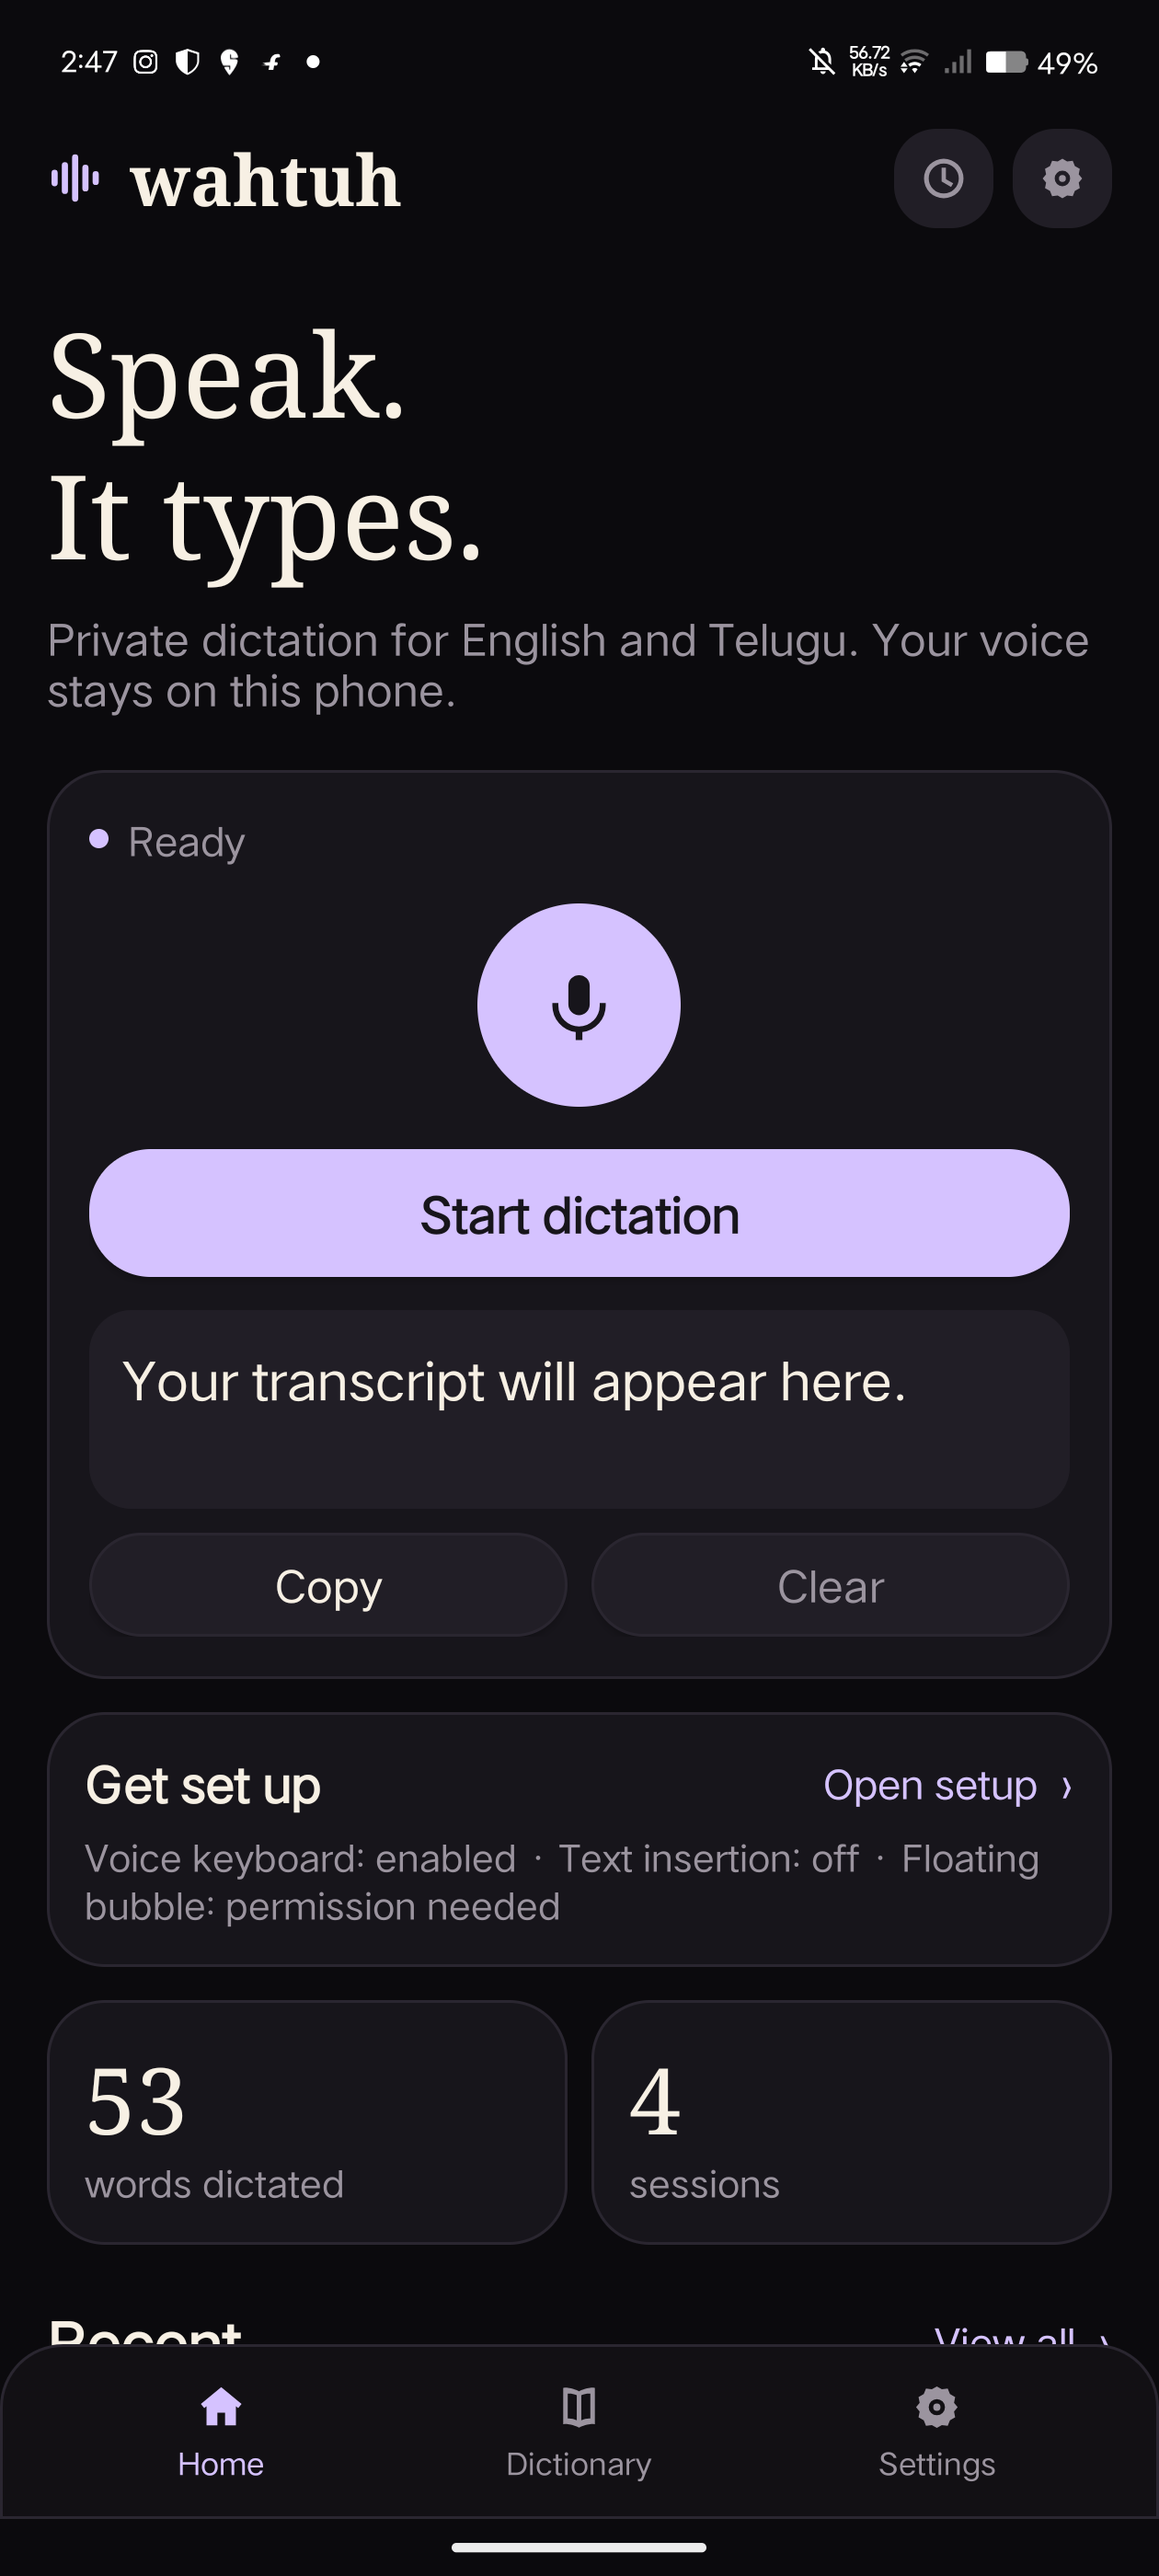
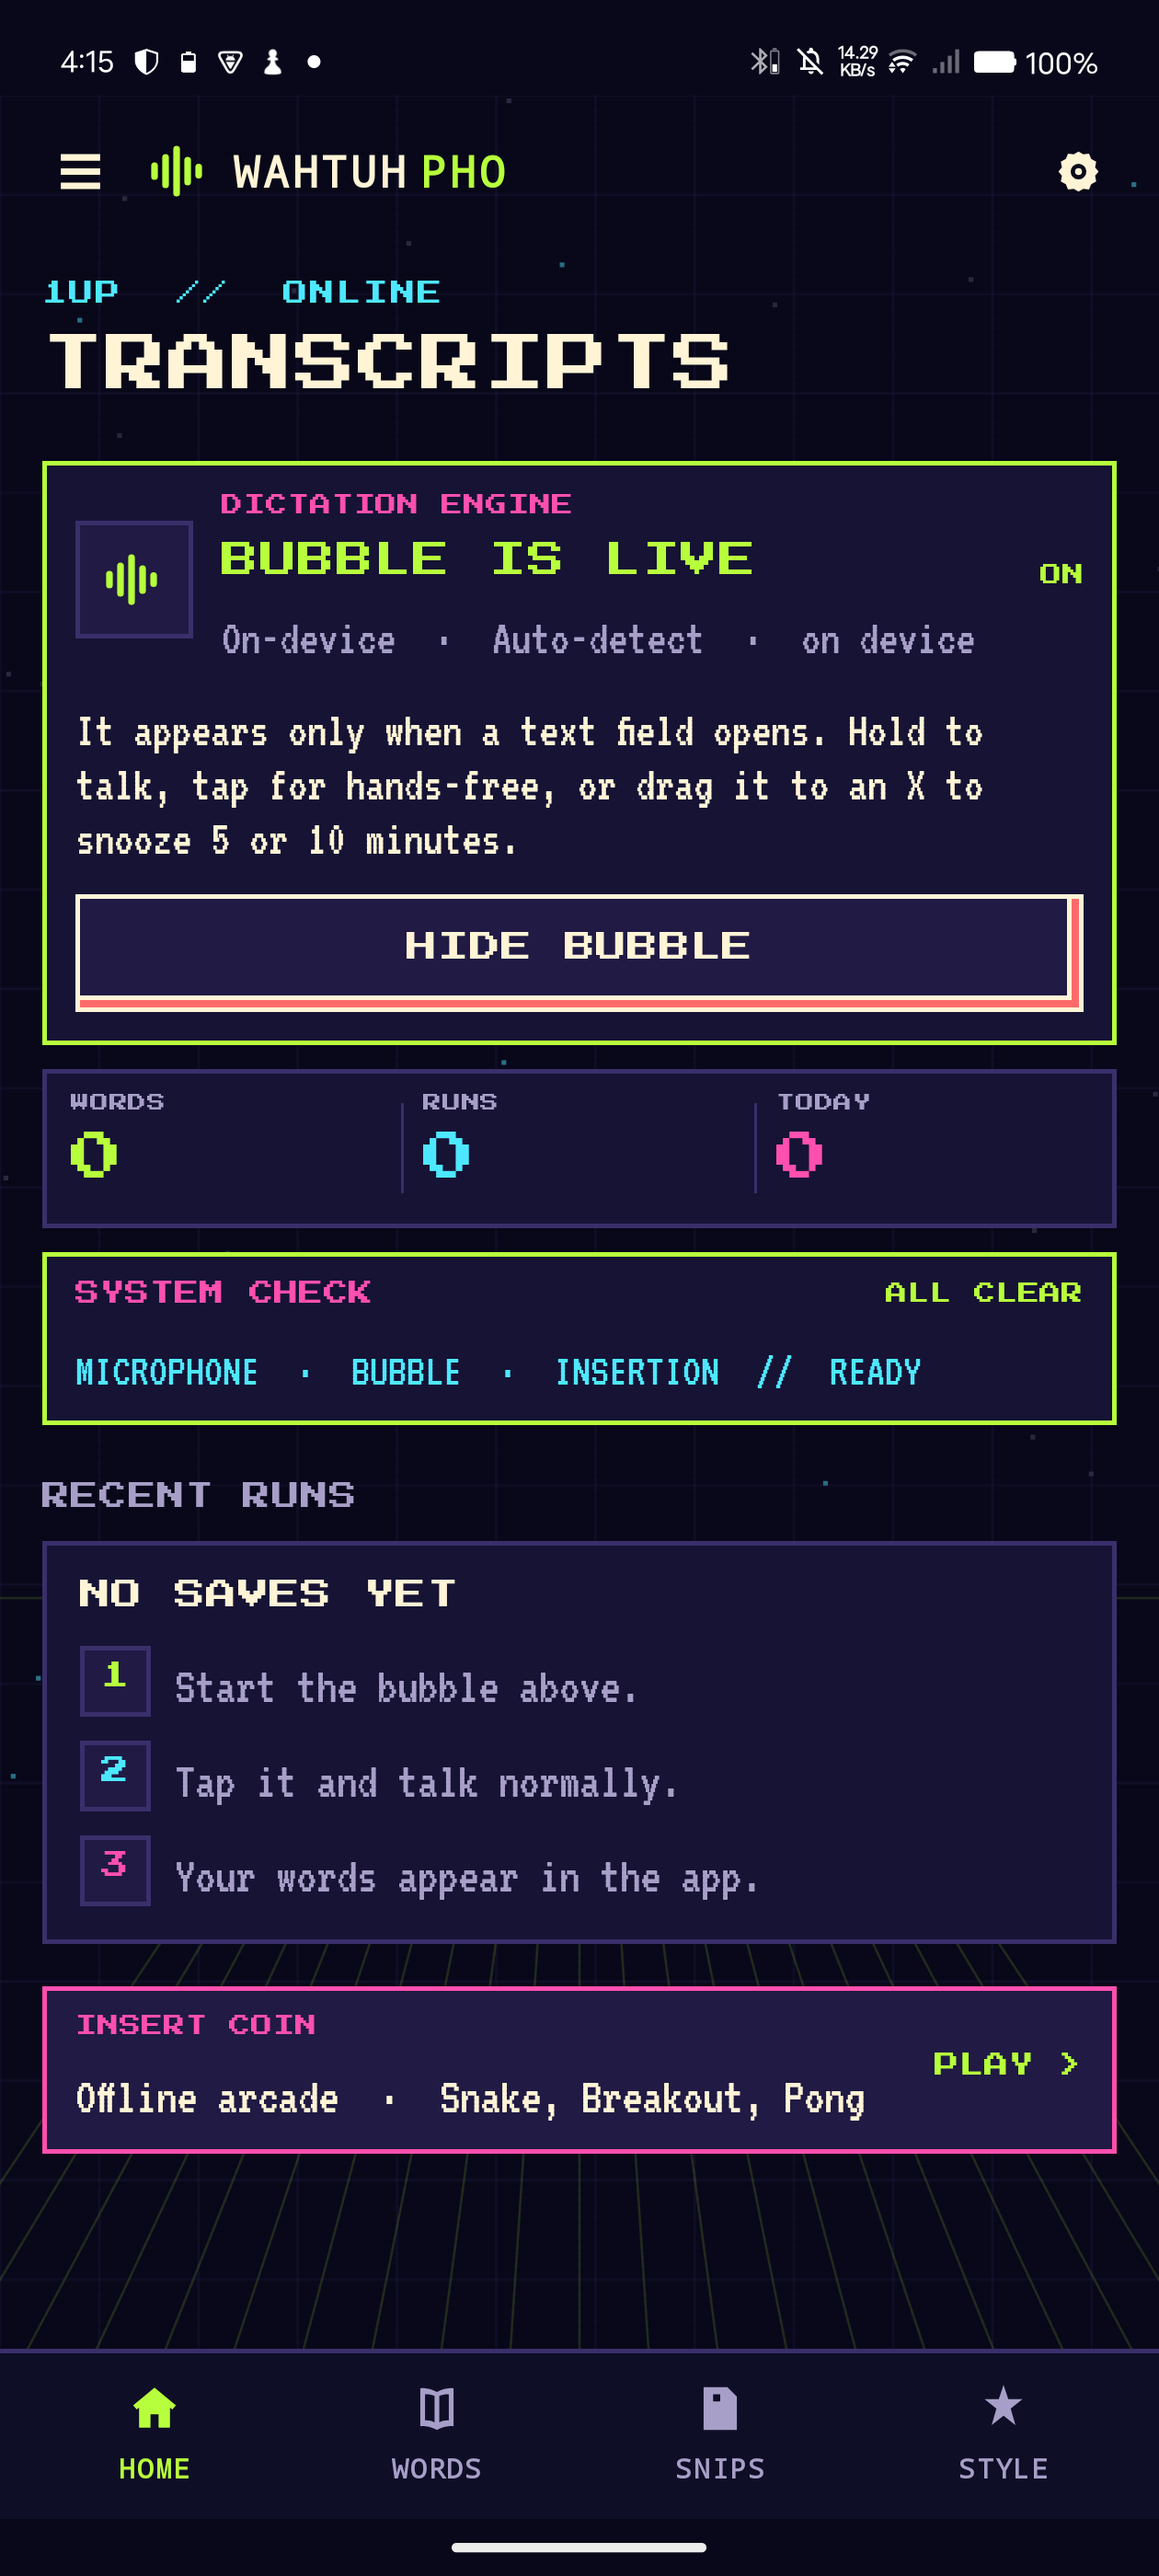
docs: refresh device screenshots and 0.3.0 release notes

diff --git a/README.md b/README.md
@@ -6,7 +6,11 @@ Wahtuh Pho is an independent, local-first voice keyboard and floating dictation 
 
 > Not affiliated with Wispr Flow. The interaction model is inspired by modern dictation apps; all app code, copy, and artwork here are original, including the arcade-inspired UI and 8-bit launcher icon.
 
-![Home screen](docs/screenshots/home.png)
+| Home | Settings | Offline arcade |
+|:---:|:---:|:---:|
+| ![Home screen](docs/screenshots/home.png) | ![Settings](docs/screenshots/settings.png) | ![Offline arcade](docs/screenshots/arcade.png) |
+
+More screens: [Dictionary](docs/screenshots/words.png) · [Snippets](docs/screenshots/snips.png) · [Styles](docs/screenshots/style.png)
 
 ## Why another dictation app?
 
@@ -26,7 +30,7 @@ Wispr Flow's paid promise, our clean-room notes, and the feature gaps we deliber
 
 ## Status
 
-- **Android app: v0.3.0.** Whistle local ASR, seven languages, verified insertion, snippets, writing styles, self-corrections, developer dictation, inline edit commands, selected-text Command Mode, local history retention, boot recovery, and optional cloud providers. Builds as an 18 MB APK. Text tests pass **51/51** and VAD checks **11/11**. The newest features still need a physical device pass; see [docs/FEATURE_PARITY.md](docs/FEATURE_PARITY.md) for the honest Wispr Flow comparison.
+- **Android app: v0.3.0.** Whistle local ASR, seven languages, verified insertion, snippets, writing styles, self-corrections, developer dictation, inline edit commands, selected-text Command Mode, local history retention, boot recovery, and optional cloud providers. Builds as an 18 MB APK. Text tests pass **51/51** and VAD checks **11/11**. The UI, drawer, tabs, bubble visibility, and all three arcade games were exercised on a vivo V2251; voice, command, and cloud paths still need broader field testing. See [docs/FEATURE_PARITY.md](docs/FEATURE_PARITY.md) for the honest Wispr Flow comparison.
 - **Rust core: scaffold + real local Whisper engine.** 74 workspace tests pass; the shipped APK has its own JNI bridge to Whistle and does **not** link the Rust crates.
 - The Android app is Gradle-free and built with `aapt2`, `javac`, D8, and `apksigner`.
 
@@ -41,7 +45,7 @@ Wispr Flow's paid promise, our clean-room notes, and the feature gaps we deliber
 - **Self-corrections and developer dictation** — "meet at five, actually six", "send it to John, I mean Jane", and "scratch that" resolve locally. Spoken `camel case`, `snake_case`, `PascalCase`, `kebab-case`, `dot.case`, and file tags become identifiers without a cloud call. Numbered lists are recognized from "first… second… third…".
 - **Inline edit commands** — "delete the last sentence", "delete the last word", "make that a bullet list", "make that a numbered list", "make that uppercase", "make that lowercase", and "capitalize that" work locally with no cloud key.
 - **Command Mode** — select text in any app, hold the bubble, and speak an edit. On-device it handles case changes, bullet/numbered lists, and deletes. A Groq, OpenAI, or Gemini key adds freeform rewrites such as "make this shorter". Only the selection changes, and the notification can undo it.
-- **Local history controls** — KEEP, 24 HOURS, or NEVER. Choosing NEVER purges saved transcripts and any saved audio, and the 24-hour policy deletes old entries and old audio automatically.
+- **Local history controls** — KEEP, 24 HOURS, or NEVER. Choosing NEVER purges saved transcripts and any legacy audio, and the 24-hour policy deletes old entries and legacy audio automatically. New dictation audio is never written to disk.
 - **Bubble controls** — small, normal, or large, with 60%, 80%, or 100% opacity.
 - **Boot and battery resilience** — if the bubble was running, a boot receiver restores it after reboot, and Settings links to the battery-optimization exemption.
 - **Writing styles + app-aware tone** — default, formal, casual, very casual, and excited. With Default selected, chat packages get casual punctuation and email packages stay formal using the foreground package name only; no screen contents are read. Styles also feed optional AI cleanup.
@@ -123,7 +127,7 @@ and [Wispr Flow research](docs/WISPR_FLOW_RESEARCH.md).
 - Cloud providers are only used when you explicitly select one and turn local-only off.
 - Cloud audio is sent as a standard multipart/JSON transcription request. Optional cleanup sends final text only; when transcription is Deepgram, the app can reuse your configured Groq, OpenAI, or Gemini key for that separate polish request. If **Field Context** is enabled, AI polish also receives a short list of extracted names/code terms, never the surrounding prose.
 - API keys are encrypted with an Android Keystore AES/GCM key and never logged.
-- History and optional recordings live in app-private storage. Clear history from Settings; recordings are not deleted by that action.
+- Transcripts live in app-private storage. New audio is not saved; legacy audio is purged by Clear, NEVER, and the 24-hour policy. Clear history from Settings.
 
 Full details: [docs/PRIVACY.md](docs/PRIVACY.md) and [docs/ANDROID_APP.md](docs/ANDROID_APP.md).
 

diff --git a/docs/PROJECT_STATUS.md b/docs/PROJECT_STATUS.md
@@ -3,7 +3,7 @@
 **Mission:** open-source, offline-first voice dictation for Android, with an arcade-inspired UI.
 **Repo:** https://github.com/desukab/wahtuh-pho · **Updated:** 2026-10-22
 
-> Honesty rule: only measured or directly observed results appear here. The v0.3.0 APK compiles and passes local tests. Bubble recording, timer/waveform, insertion, and all three arcade games were exercised on the vivo V2251. The newest features in this build still need a fresh device pass: Command Mode, inline edit commands, retention controls, boot recovery, Field Context, and selected-text replacement.
+> Honesty rule: only measured or directly observed results appear here. The v0.3.0 APK compiles, passes local tests, installs over the previous build, and its Home, tabs, Settings, drawer, bubble visibility, and all three arcade games were exercised on the vivo V2251. The refreshed screenshots in `docs/screenshots/` were captured from build `e274e26b…` on that device. Voice, Command Mode, retention, boot recovery, Field Context, and selected-text replacement still need a broader field pass.
 
 ## Android app — v0.3.0
 
@@ -15,7 +15,7 @@
 - Text: punctuation, filler removal, dictionary, snippets, five styles, email dictation, optional text-only cloud cleanup.
 - Precision helpers: local self-corrections (`actually`, `no wait`, `I mean`, `scratch that`), spoken developer identifiers (`camelCase`, `snake_case`, `PascalCase`, `kebab-case`, `dot.case`), file tags (`@main.py`), numbered lists, and local inline edits (delete last sentence/word, bullet/numbered lists, case changes). Tests: **51/51** text, **11/11** VAD.
 - Command Mode: select text, hold the bubble, and speak an edit. On-device handles case, list, and delete commands; Groq, OpenAI, or Gemini adds freeform rewrites. Replaces the selection only if it still matches, with notification undo. Sessions warn at 4 minutes and auto-submit at 5.
-- History retention: KEEP / 24 HOURS / NEVER; 24-hour mode prunes old transcripts and audio, NEVER purges both and stops saving.
+- History retention: KEEP / 24 HOURS / NEVER; 24-hour mode prunes old transcripts and legacy audio; NEVER purges both and stops saving. New dictation audio is never written to disk.
 - Resilience: boot receiver restores a deliberately-running bubble; Settings exposes the battery-optimization exemption. Bubble size (small/normal/large) and opacity (60/80/100%) are configurable.
 - Context: app-aware tone uses the package name only. An opt-in **Field Context** switch extracts names/code terms from the focused field for AI polish; passwords and the app's own fields are refused.
 - Tone: app-aware preset from the foreground package name only (chat = casual, email = formal); no screen reading.
@@ -34,13 +34,12 @@ The in-app JNI latency has not been measured yet. See [BENCHMARKS.md](BENCHMARKS
 
 ## Current gaps
 
-1. Device-test the newest build: Command Mode selected-text replacement, inline edit commands, retention (KEEP/24H/NEVER), boot restore, battery exemption, text-field gating, snooze, self-correction/dev-text, numbered lists, and Field Context, including password fields, split screen, and keyboard close/open.
+1. Broader field pass for voice, Command Mode selected-text replacement, inline edits, retention (KEEP/24H/NEVER), boot restore, battery exemption, text-field gating, snooze, self-correction/dev-text, numbered lists, and Field Context, including password fields, split screen, and keyboard close/open.
 2. Re-test all four cloud providers with live keys, including Command Mode on Groq, OpenAI, and Gemini. Gemini response parsing reads `audioTranscription.text`; OpenAI retries `gpt-4o-transcribe` with legacy fields on a 400/404/415/422.
 3. Measure Whistle quality and latency inside the app across the seven languages.
 4. Field-test accented English and noisy environments; the current sample is tiny.
-5. Update screenshots in `docs/screenshots/` to the arcade UI.
-6. Publish the v0.3.0 APK with SHA-256 and release notes.
-7. Remaining parity gaps that need engineering, not just testing: streaming partials, local Hinglish/Telugu breadth, dictionary auto-learn/sync, banking-app stand-down, and per-app web-editor shims. See [FEATURE_PARITY.md](FEATURE_PARITY.md).
+5. Keep the v0.3.0 APK, release notes, and screenshots in sync with the tested commit.
+6. Remaining parity gaps that need engineering, not just testing: streaming partials, local Hinglish/Telugu breadth, dictionary auto-learn/sync, banking-app stand-down, and per-app web-editor shims. See [FEATURE_PARITY.md](FEATURE_PARITY.md).
 
 ## Rust core
 

diff --git a/docs/RELEASE_NOTES_0.3.0.md b/docs/RELEASE_NOTES_0.3.0.md
@@ -3,8 +3,27 @@
 Offline-first Android dictation with a floating arcade bubble. No account, no
 subscription, no telemetry, and no silent cloud fallback.
 
+This release is the one that actually ships the arcade UI. Earlier public
+artifacts were still v0.1.0; the source tree had moved on, but the screenshot and
+APK on the Releases page had not.
+
+## Screenshots
+
+Captured from this APK on a vivo V2251 (1260 × 2800):
+
+- [Home](https://github.com/desukab/wahtuh-pho/blob/main/docs/screenshots/home.png)
+- [Dictionary](https://github.com/desukab/wahtuh-pho/blob/main/docs/screenshots/words.png)
+- [Settings](https://github.com/desukab/wahtuh-pho/blob/main/docs/screenshots/settings.png)
+- [Offline arcade](https://github.com/desukab/wahtuh-pho/blob/main/docs/screenshots/arcade.png)
+- [Snippets](https://github.com/desukab/wahtuh-pho/blob/main/docs/screenshots/snips.png) · [Styles](https://github.com/desukab/wahtuh-pho/blob/main/docs/screenshots/style.png)
+
 ## Highlights
 
+- **Arcade UI, everywhere.** Dark indigo cabinet, neon lime/cyan/magenta,
+  Press Start 2P headings, VT323 body copy, sharp panels, bevel buttons, a
+  starfield/scanline backdrop, and an 8-bit launcher icon. Home, Words, Snips,
+  Style, Settings, the drawer, onboarding, dialogs, and the floating bubble all
+  share the same system.
 - **Hold to dictate, tap for hands-free.** Hold the bubble for 380 ms to record;
   release to transcribe. A short tap still toggles hands-free.
 - **Command Mode.** Select text in another app, hold the bubble, and speak an
@@ -15,13 +34,14 @@ subscription, no telemetry, and no silent cloud fallback.
 - **Inline edit commands.** Delete the last sentence or word, turn the last
   sentence into a bullet or numbered list, and change case — entirely on-device.
 - **History retention.** KEEP, 24 HOURS, or NEVER. NEVER deletes saved
-  transcripts and audio and stops saving new ones.
+  transcripts and legacy audio and stops saving new history. New dictation
+  audio is never written to disk.
 - **Boot and battery resilience.** A deliberately-running bubble is restored
   after reboot, and Settings links to the battery-optimization exemption.
 - **Bubble controls.** Small, normal, or large bubble at 60%, 80%, or 100%
   opacity.
 - **Session limits.** A session warns at four minutes and auto-transcribes at
-  five minutes, matching Wispr Flow Android.
+  five minutes.
 - **Notification undo.** Undo restores the field only if it still matches the
   inserted text.
 
@@ -41,16 +61,24 @@ subscription, no telemetry, and no silent cloud fallback.
 
 - Text pipeline: **51/51** checks.
 - VAD/audio: **11/11** checks.
-- APK builds with `aapt2` + `javac` + D8 + `apksigner`.
[1 lines of base64/hex data omitted]
+- ASR scoring/normalization: **4/4** unit tests.
+- Final APK: `wahtuh-pho-0.3.0.apk`, 18 MB, arm64-v8a, minSdk 26, targetSdk 35.
+- Installed over the previous build with `adb install -r`; Home, Words, Snips,
+  Style, Settings, the drawer, the live bubble, and all three arcade games were
+  exercised on a vivo V2251 / Android 15.
+- `zipalign -c -v 4` passed.
+- `apksigner verify` passed. Project signing certificate SHA-256:
[2 lines of base64/hex data omitted]
 
 ## Known gaps
 
 Streaming partials, local Hinglish/Telugu breadth, dictionary auto-learn/sync,
-banking-app stand-down, per-app web-editor shims, configurable bubble
-size/opacity, and hard session caps. See
-[FEATURE_PARITY.md](FEATURE_PARITY.md) for the comparison and
-[PROJECT_STATUS.md](PROJECT_STATUS.md) for the device-test checklist.
+banking-app stand-down, and per-app web-editor shims are not in this build. Voice,
+Command Mode, retention, boot recovery, Field Context, and selected-text
+replacement still need a broader field pass. No Play Store distribution; install
+the APK directly. See [FEATURE_PARITY.md](FEATURE_PARITY.md) for the comparison
+and [PROJECT_STATUS.md](PROJECT_STATUS.md) for the device-test checklist.
 
 ## Install
 

diff --git a/docs/PRIVACY.md b/docs/PRIVACY.md
@@ -163,6 +163,6 @@ Requests include audio, model, language hint, and short vocabulary hints from yo
 - **Field Context** is a separate, off-by-default switch. When enabled, the app reads the focused field at stop time and sends only extracted names/code terms to AI polish. It is blocked unless AI polish is on, and refuses passwords and Wahtuh Pho's own fields.
 - **History retention** is KEEP, 24 HOURS, or NEVER. NEVER deletes `history.jsonl` and legacy audio and stops saving new entries.
 - **Clear transcript history** deletes `history.jsonl` and any legacy audio files.
-- Recordings are not saved by default; clearing app storage or uninstalling removes all local data.
+- Recordings are never saved; clearing app storage or uninstalling removes all local data.
 - Remove the cloud key at any time; transcripts remain.
 - No analytics, ads, crash reporting, or telemetry SDKs. `INTERNET` exists only for opt-in cloud calls.

diff --git a/docs/ARCHITECTURE.md b/docs/ARCHITECTURE.md
@@ -295,5 +295,5 @@ The library links `libneedle.a` and bundles `libc++_shared.so`. Model loading is
 
 - `files/models/` — unpacked Whistle model with a version marker
 - `files/history.jsonl` — append-only JSONL, max 300 entries
-- `files/audio/` — optional per-dictation WAVs
+- `files/audio/` — legacy only; no new recordings are written and retention deletes leftovers
 - `shared_prefs/` — settings; API key ciphertext only, with the key in Keystore

diff --git a/docs/ANDROID_APP.md b/docs/ANDROID_APP.md
@@ -71,5 +71,4 @@ export ANDROID_JAR=$HOME/asdk/android-35/android.jar
 - `files/models/` — unpacked Whistle model and version marker
 - `files/history.jsonl` — JSONL, max 300 entries, subject to KEEP / 24 HOURS / NEVER
 - `files/audio/` — legacy only; no new recordings are written and retention deletes leftovers
-- `files/audio/` — optional per-dictation WAVs
 - `shared_prefs/` — settings; API key ciphertext only, with the key in Keystore
